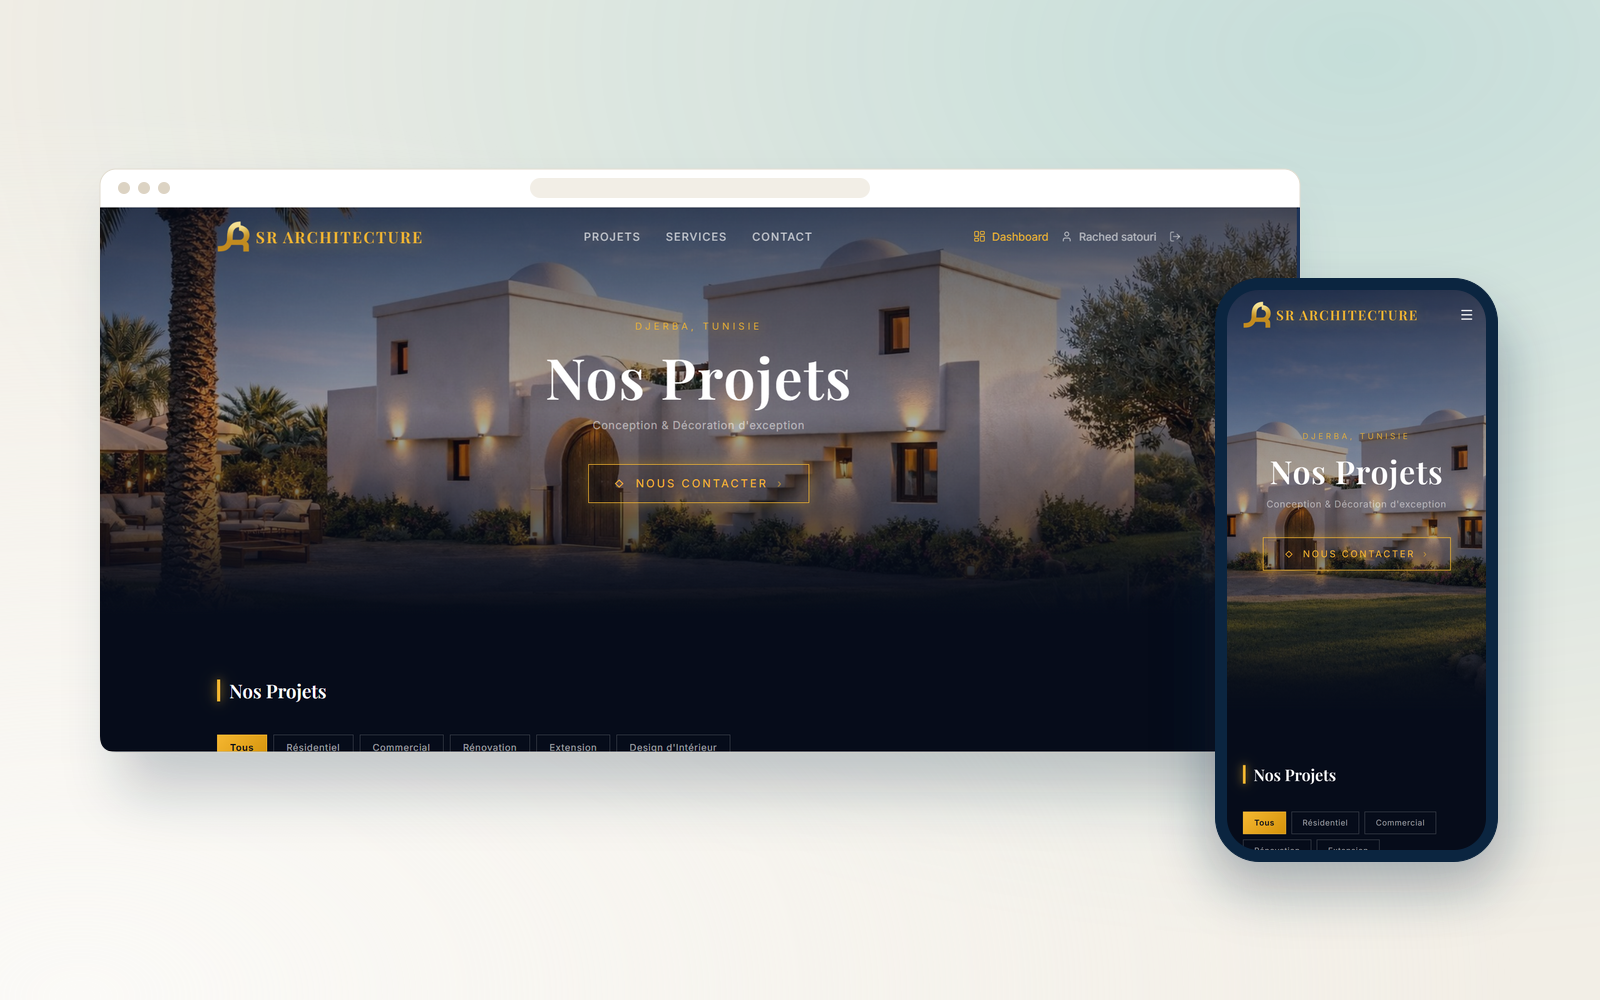
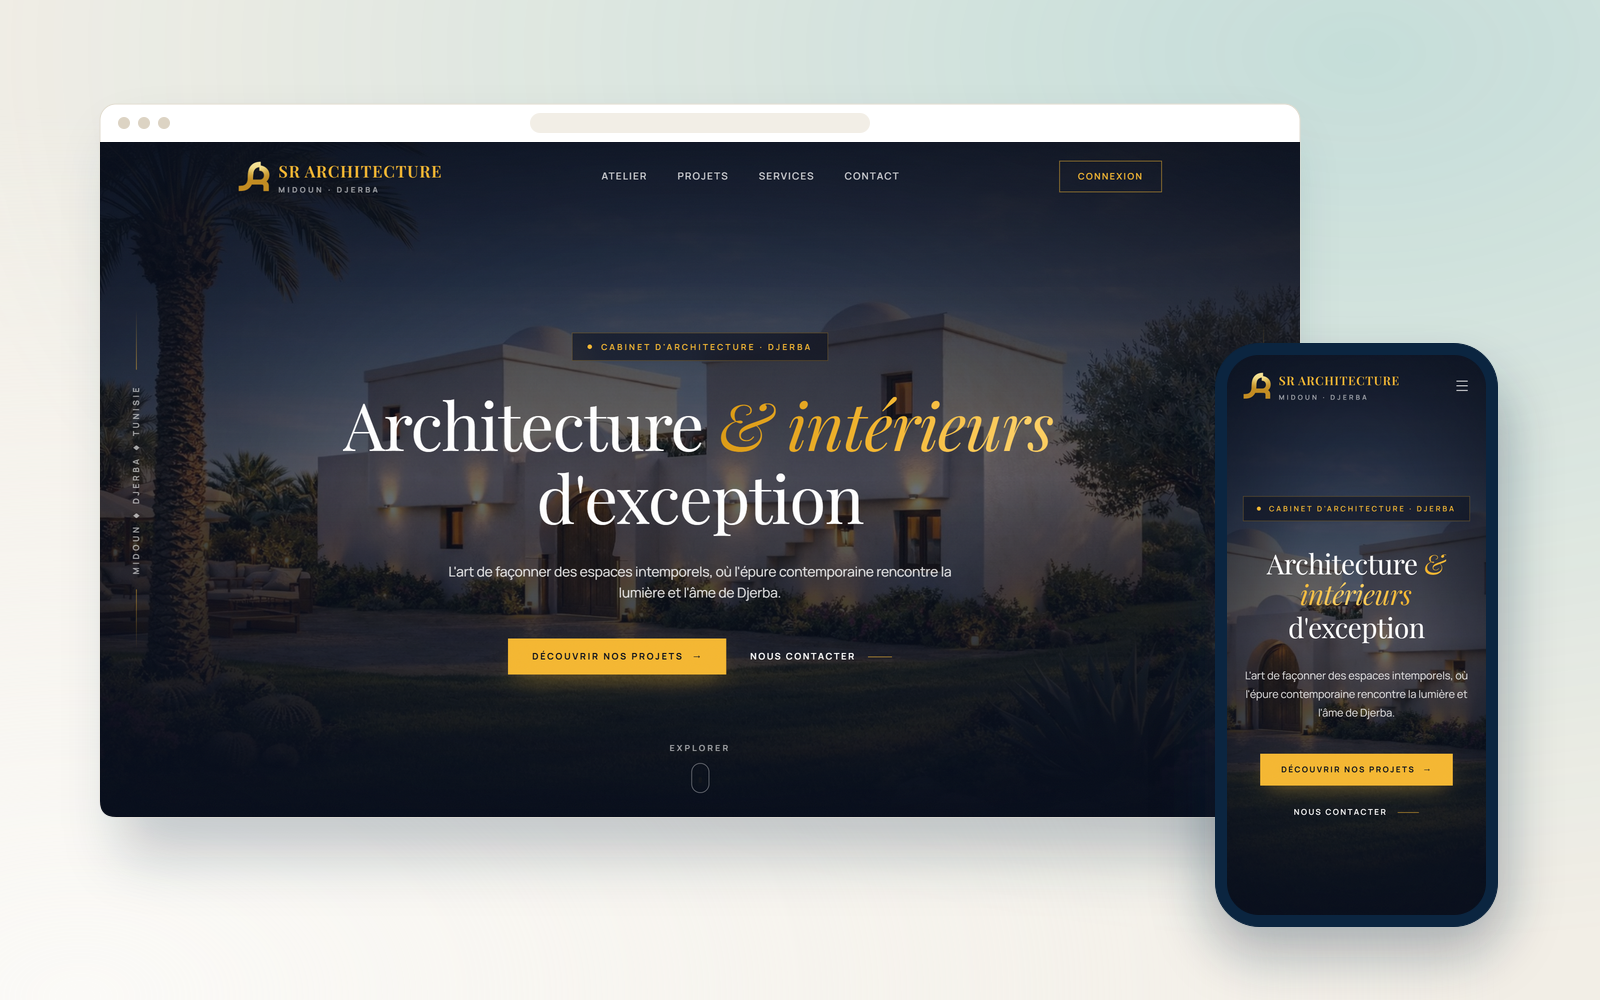
Captures mises à jour : nouveau design du site

diff --git a/README.md b/README.md
@@ -46,7 +46,9 @@ Une vitrine sobre pour mettre en valeur les réalisations du cabinet, avec un vr
 ### Mobile
 
 <p align="center">
-  <img src="images/mobile-1.png" alt="SR Architecture Djerba — capture mobile 1" width="40%">
+  <img src="images/mobile-1.png" alt="SR Architecture Djerba — capture mobile 1" width="31%">
+  <img src="images/mobile-2.png" alt="SR Architecture Djerba — capture mobile 2" width="31%">
+  <img src="images/mobile-3.png" alt="SR Architecture Djerba — capture mobile 3" width="31%">
 </p>
 
 ## Fiche
